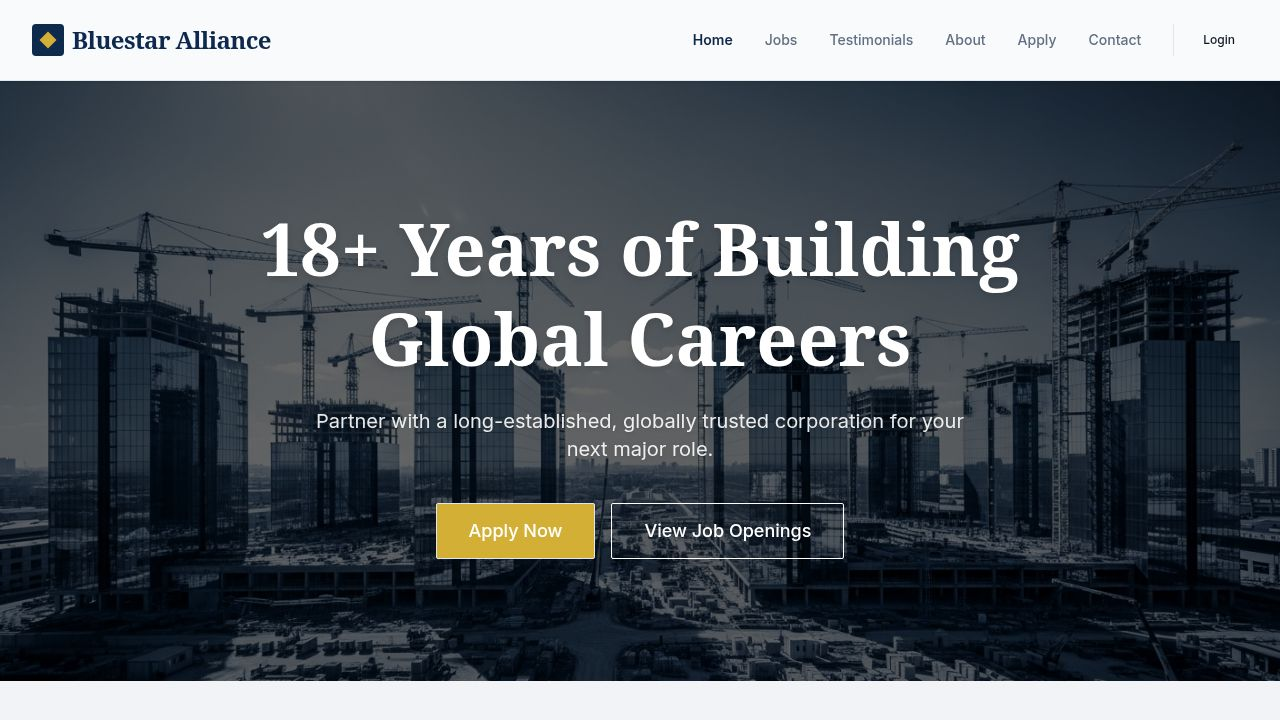
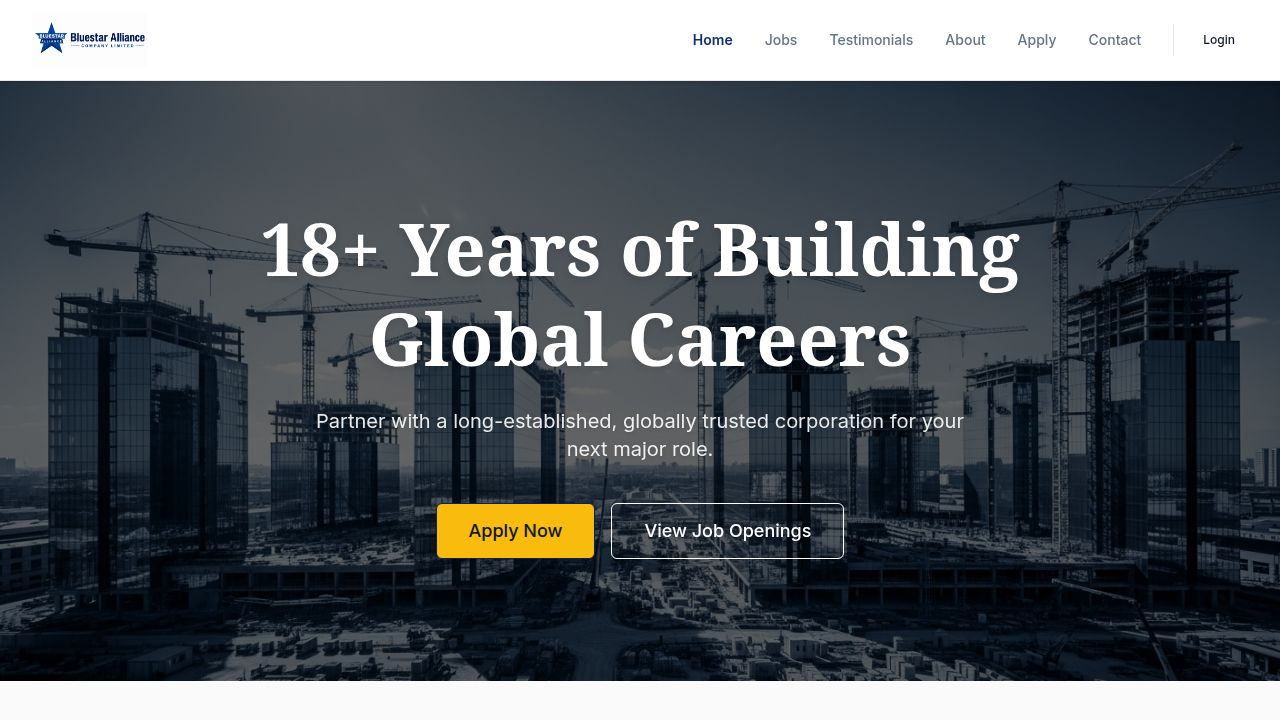
Fix local development port conflicts and database connection issues
Correct artifact configuration to use port 5000 for local development and trim the DATABASE_URL to prevent connection errors.

Replit-Commit-Author: Agent
Replit-Commit-Session-Id: e91d74ef-202d-4085-9768-4440c4c59b06
Replit-Commit-Checkpoint-Type: full_checkpoint
Replit-Commit-Event-Id: 2a94a081-0fe1-4d1f-81af-229a42750344
Replit-Commit-Screenshot-Url: https://storage.googleapis.com/screenshot-production-us-central1/9cbf2ed9-d60a-4406-93c7-a55ce9014f37/e91d74ef-202d-4085-9768-4440c4c59b06/XlYbIBq
Replit-Helium-Checkpoint-Created: true

Changed region(s): [[0.3438, 0.6722, 0.4688, 0.7944], [0.0, 0.0306, 0.2188, 0.0917]]

diff --git a/lib/db/src/index.ts b/lib/db/src/index.ts
@@ -10,7 +10,12 @@ if (!process.env.DATABASE_URL) {
   );
 }
 
-export const pool = new Pool({ connectionString: process.env.DATABASE_URL });
+// Trim to guard against accidental leading/trailing whitespace when the
+// value is pasted into a secrets manager (pg's parser does not tolerate it,
+// unlike the WHATWG URL parser used elsewhere).
+const connectionString = process.env.DATABASE_URL.trim();
+
+export const pool = new Pool({ connectionString });
 export const db = drizzle(pool, { schema });
 
 export * from "./schema";

diff --git a/lib/db/drizzle.config.ts b/lib/db/drizzle.config.ts
@@ -9,6 +9,6 @@ export default defineConfig({
   schema: path.join(__dirname, "./src/schema/index.ts"),
   dialect: "postgresql",
   dbCredentials: {
-    url: process.env.DATABASE_URL,
+    url: process.env.DATABASE_URL.trim(),
   },
 });